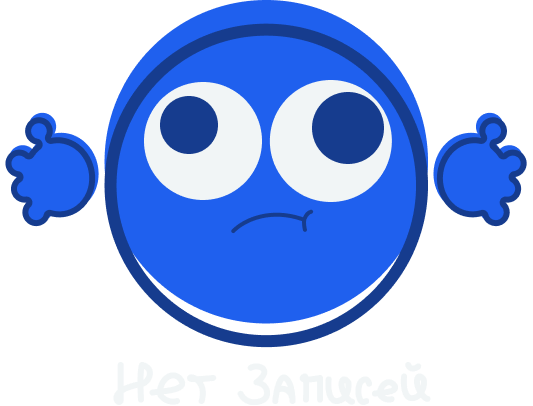
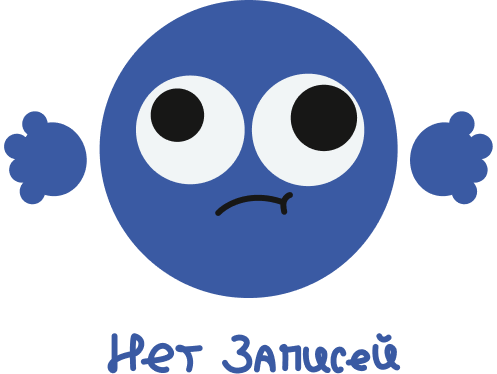
правки главной страницы

diff --git a/client/src/pages/HomePage.tsx b/client/src/pages/HomePage.tsx
@@ -12,6 +12,7 @@ import { JoinRoom } from "@/features/rooms/ui/JoinRoom";
 import { Link } from "react-router";
 import { Button } from "@/shared";
 import { ChooseCardCharacter } from "@/shared/ui/characters/ChooseCardCharacter";
+import { CharacterCreate } from "@/shared/ui/characters/CharacterCreate";
 
 export const HomePage = () => {
   const steps = [
@@ -66,6 +67,18 @@ export const HomePage = () => {
         </div>
       </section>
 
+      <div className="w-full max-w-[1150px] px-6 my-12">
+        <div className="w-full h-auto overflow-hidden rounded-2xl relative">
+          <div className="absolute -z-10 inset-0 bg-accent opacity-5 blur-xl group-hover:opacity-10 transition-opacity duration-500" />
+
+          <img
+            src="/Banner1.png"
+            alt="IHP Banner"
+            className="w-full h-auto object-contain object-center transition-transform duration-700 group-hover:scale-[1.01]"
+          />
+        </div>
+      </div>
+
       <section className="relative z-10 w-full max-w-6xl px-6 py-24">
         <div className="text-center mb-16">
           <h2 className="text-4xl font-bold mb-4">Как это работает?</h2>
@@ -93,6 +106,9 @@ export const HomePage = () => {
       </section>
 
       <section className="relative z-10 w-full max-w-[1200px] px-6 py-12 my-16">
+        <div className="w-full mb-10">
+          <CharacterCreate size={60} />
+        </div>
         <div className="grid grid-cols-1 md:grid-cols-2 gap-6 md:gap-8 items-stretch">
           <div className="relative group overflow-hidden rounded-2xl bg-card-bg/10 border border-font-muted/10 backdrop-blur-sm p-8 md:p-10 shadow-2xl transition-all duration-300 hover:border-accent/20 flex flex-col justify-between gap-8">
             <div className="absolute -z-10 -bottom-24 -right-24 w-48 h-48 bg-accent opacity-5 group-hover:opacity-10 blur-[60px] rounded-full transition-opacity duration-500" />

diff --git a/client/src/pages/RoomsPage.tsx b/client/src/pages/RoomsPage.tsx
@@ -3,6 +3,7 @@ import { RoomList } from "@/widgets/Rooms/RoomsList";
 import { RoomSearch } from "@/features/rooms/ui/RoomSearch";
 import { LayoutGrid } from "lucide-react";
 import { RoomsForm } from "@/features/rooms/ui/RoomsForm";
+import { Joyride, Step } from "react-joyride";
 
 export const RoomsPage = () => {
   const [searchQuery, setSearchQuery] = useState("");
@@ -29,7 +30,7 @@ export const RoomsPage = () => {
 
         <div className="flex gap-6 items-stretch w-full max-h-[600px]">
           <div className="w-[420px] shrink-0 border border-font-muted/15 bg-main-bg/40 backdrop-blur-md rounded-2xl p-6 flex flex-col justify-between overflow-hidden">
-            <div className="flex flex-col">
+            <div className="flex flex-col" id="roomsForms">
               <RoomsForm />
             </div>
           </div>
@@ -37,7 +38,10 @@ export const RoomsPage = () => {
             <div className="p-5 border-b border-font-main/5 shrink-0">
               <RoomSearch value={searchQuery} onChange={setSearchQuery} />
             </div>
-            <div className="flex-1 overflow-y-auto p-5 rooms-scroll bg-card-bg/40 min-h-[600px]">
+            <div
+              className="flex-1 overflow-y-auto p-5 rooms-scroll bg-card-bg/40 min-h-[600px]"
+              id="roomList"
+            >
               <RoomList searchQuery={searchQuery} />
             </div>
           </div>

diff --git a/client/src/features/rooms/ui/RoomsForm.tsx b/client/src/features/rooms/ui/RoomsForm.tsx
@@ -32,8 +32,6 @@ export const RoomsForm = () => {
       <div className="transition-all duration-300 dynamic-form-container">
         {activeTab === "join" ? <JoinRoom /> : <CreateRoom />}
       </div>
-
-      <CharacterCreate size={40} />
     </div>
   );
 };